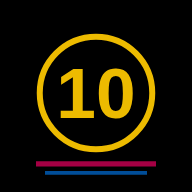
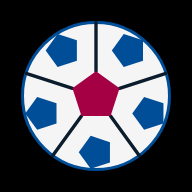
Icône ballon bleu/grenat + champ numéro du but
- Favicon et icônes PWA : ballon de foot aux couleurs du Barça (pentagone
  central grenat, pentagones bleus), généré par scripts/make-icons.js
- Nouveau champ goalNumber (numéro du but en carrière) : schéma, validation,
  formulaire, colonne « N° », tri par numéro, issue GitHub et doc
- Premier but officiel (vs Albacete) marqué #1

Claude-Session: https://claude.ai/code/session_012ncpknNvvyoeL6TUCNpyCJ

diff --git a/scripts/make-icons.js b/scripts/make-icons.js
@@ -1,6 +1,7 @@
 'use strict';
 
-// Génère les icônes PNG de la PWA à partir d'un SVG, via Chromium (Playwright).
+// Génère le favicon + les icônes PNG de la PWA : un ballon de foot aux
+// couleurs du Barça (bleu / grenat). Rendu via Chromium (Playwright).
 //   node scripts/make-icons.js
 const { chromium } = require('playwright');
 const fs = require('fs');
@@ -8,28 +9,60 @@ const path = require('path');
 
 const OUT = path.join(__dirname, '..', 'icons');
 
-function svg(size) {
+const BG = '#000000';
+const BALL = '#f5f5f5';
+const BLAU = '#004d98';
+const GRANA = '#a50044';
+const SEAM = '#0b1c2c';
+
+// Points d'un pentagone régulier (chaîne "x,y x,y …")
+function pentagon(cx, cy, r, rotDeg = 0) {
+  const pts = [];
+  for (let i = 0; i < 5; i++) {
+    const a = ((-90 + rotDeg + i * 72) * Math.PI) / 180;
+    pts.push(`${(cx + r * Math.cos(a)).toFixed(1)},${(cy + r * Math.sin(a)).toFixed(1)}`);
+  }
+  return pts.join(' ');
+}
+
+function ballSvg(size) {
+  const c = 256, R = 196;
+  // Centres des pentagones extérieurs (au milieu des arêtes du pentagone central)
+  const outerAngles = [-54, 18, 90, 162, 234];
+  const outer = outerAngles.map((deg) => {
+    const a = (deg * Math.PI) / 180;
+    return { x: c + 150 * Math.cos(a), y: c + 150 * Math.sin(a), rot: deg + 180 };
+  });
+  // Coutures : des sommets du pentagone central vers le bord du ballon
+  const seams = [];
+  for (let i = 0; i < 5; i++) {
+    const a = ((-90 + i * 72) * Math.PI) / 180;
+    seams.push(
+      `<line x1="${(c + 66 * Math.cos(a)).toFixed(1)}" y1="${(c + 66 * Math.sin(a)).toFixed(1)}" ` +
+      `x2="${(c + R * Math.cos(a)).toFixed(1)}" y2="${(c + R * Math.sin(a)).toFixed(1)}" ` +
+      `stroke="${SEAM}" stroke-width="9" stroke-linecap="round"/>`
+    );
+  }
   return `<svg xmlns="http://www.w3.org/2000/svg" width="${size}" height="${size}" viewBox="0 0 512 512">
-    <rect width="512" height="512" fill="#000000"/>
-    <circle cx="256" cy="248" r="150" fill="none" stroke="#edbb00" stroke-width="16"/>
-    <text x="256" y="248" font-family="Arial, Helvetica, sans-serif" font-size="190" font-weight="800"
-          fill="#edbb00" text-anchor="middle" dominant-baseline="central">10</text>
-    <rect x="96" y="430" width="320" height="14" fill="#a50044"/>
-    <rect x="120" y="456" width="272" height="10" fill="#004d98"/>
+    <rect width="512" height="512" fill="${BG}"/>
+    <circle cx="${c}" cy="${c}" r="${R}" fill="${BALL}" stroke="${BLAU}" stroke-width="8"/>
+    ${seams.join('\n    ')}
+    ${outer.map((o) => `<polygon points="${pentagon(o.x, o.y, 46, o.rot)}" fill="${BLAU}"/>`).join('\n    ')}
+    <polygon points="${pentagon(c, c, 66, 0)}" fill="${GRANA}"/>
   </svg>`;
 }
 
 (async () => {
   fs.mkdirSync(OUT, { recursive: true });
-  fs.writeFileSync(path.join(OUT, 'icon.svg'), svg(512), 'utf8');
+  fs.writeFileSync(path.join(OUT, 'icon.svg'), ballSvg(512), 'utf8');
 
   const browser = await chromium.launch();
   const page = await browser.newPage();
   for (const size of [180, 192, 512]) {
     await page.setViewportSize({ width: size, height: size });
-    await page.setContent(`<!doctype html><html><body style="margin:0">${svg(size)}</body></html>`);
+    await page.setContent(`<!doctype html><html><body style="margin:0">${ballSvg(size)}</body></html>`);
     await page.screenshot({ path: path.join(OUT, `icon-${size}.png`), clip: { x: 0, y: 0, width: size, height: size } });
   }
   await browser.close();
-  console.log('Icônes générées dans', OUT);
+  console.log('Icônes (ballon bleu/grenat) générées dans', OUT);
 })().catch((e) => { console.error(e); process.exit(1); });

diff --git a/scripts/build-data.js b/scripts/build-data.js
@@ -60,6 +60,10 @@ function validateGoal(goal) {
     const n = Number(goal.minute);
     if (!Number.isInteger(n) || n < 0 || n > 130) errors.push('minute invalide (entier 0-130)');
   }
+  if (!isEmpty(goal.goalNumber)) {
+    const n = Number(goal.goalNumber);
+    if (!Number.isInteger(n) || n < 1 || n > 2000) errors.push('numéro du but invalide (entier 1-2000)');
+  }
   if (!isEmpty(goal.bodyPart) && !BODY_PARTS.includes(goal.bodyPart)) {
     errors.push('partie du corps invalide (' + BODY_PARTS.join(', ') + ')');
   }
@@ -85,6 +89,7 @@ function validateGoal(goal) {
 function normalize(data, id) {
   return {
     id,
+    goalNumber: (data.goalNumber === '' || data.goalNumber == null) ? null : Number(data.goalNumber),
     date: data.date || '',
     team: data.team || '',
     opponent: data.opponent || '',

diff --git a/app.js b/app.js
@@ -90,6 +90,7 @@ function applyFilters(goals, q) {
   r.sort((a, b) => {
     if (sort === 'date_asc') return String(a.date).localeCompare(String(b.date));
     if (sort === 'minute') return (a.minute ?? 999) - (b.minute ?? 999);
+    if (sort === 'number') return (a.goalNumber ?? Infinity) - (b.goalNumber ?? Infinity);
     return String(b.date).localeCompare(String(a.date));
   });
   return r;
@@ -180,6 +181,7 @@ function renderGoals(goals) {
       ? `<a class="video-link" href="${escapeHtml(vurl)}" target="_blank" rel="noopener noreferrer">▶ Voir</a>`
       : '<span class="muted">—</span>';
     return `<tr data-id="${escapeHtml(g.id)}">
+      <td data-label="N° du but">${g.goalNumber != null ? '#' + escapeHtml(g.goalNumber) : '—'}</td>
       <td data-label="Date">${formatDate(g.date)}</td>
       <td data-label="Équipe">${escapeHtml(g.team) || '—'}</td>
       <td class="opponent" data-label="Adversaire">${escapeHtml(g.opponent)}</td>
@@ -243,6 +245,7 @@ function openGitHubContribution(payload, id) {
     (payload.opponent || '?') + ' (' + (payload.date || '?') + ')';
 
   const rows = [
+    ['N° du but (carrière)', payload.goalNumber],
     ['Date', payload.date],
     ['Équipe de Messi', payload.team],
     ['Équipe adverse', payload.opponent],

diff --git a/index.html b/index.html
@@ -47,6 +47,7 @@
       <select id="filter-sort">
         <option value="date_desc">Date ↓ (récent)</option>
         <option value="date_asc">Date ↑ (ancien)</option>
+        <option value="number">N° de but ↑</option>
         <option value="minute">Minute</option>
       </select>
       <label class="checkbox"><input type="checkbox" id="filter-hasVideo" /> Avec vidéo</label>
@@ -59,6 +60,7 @@
       <table class="goals-table">
         <thead>
           <tr>
+            <th>N°</th>
             <th>Date</th>
             <th>Équipe</th>
             <th>Adversaire</th>
@@ -87,6 +89,7 @@
       <h2 id="dialog-title">Ajouter un but</h2>
       <div id="form-errors" class="form-errors" hidden></div>
       <div class="form-grid">
+        <label>N° du but (en carrière)<input type="number" name="goalNumber" min="1" max="2000" placeholder="457" /></label>
         <label>Date *<input type="date" name="date" required /></label>
         <label>Équipe adverse *<input type="text" name="opponent" placeholder="Real Madrid" required /></label>
         <label>Équipe de Messi<input type="text" name="team" list="teams-list" placeholder="FC Barcelone, PSG, Inter Miami, Argentine…" /></label>

diff --git a/data/README.md b/data/README.md
@@ -39,6 +39,7 @@ même match, suffixez : `...-manchester-united-2.json`.
 |---|---|---|---|
 | `date` | chaîne `AAAA-MM-JJ` | ✅ | — |
 | `opponent` | chaîne | ✅ | équipe adverse |
+| `goalNumber` | entier 1–2000 ou `null` | — | numéro du but en carrière (1 = premier but) |
 | `team` | chaîne | — | équipe de Messi : FC Barcelone, Paris Saint-Germain, Inter Miami, Argentine… |
 | `competition` | chaîne | — | Liga, Ligue des champions, Copa del Rey… |
 | `city` | chaîne | — | ville du match |